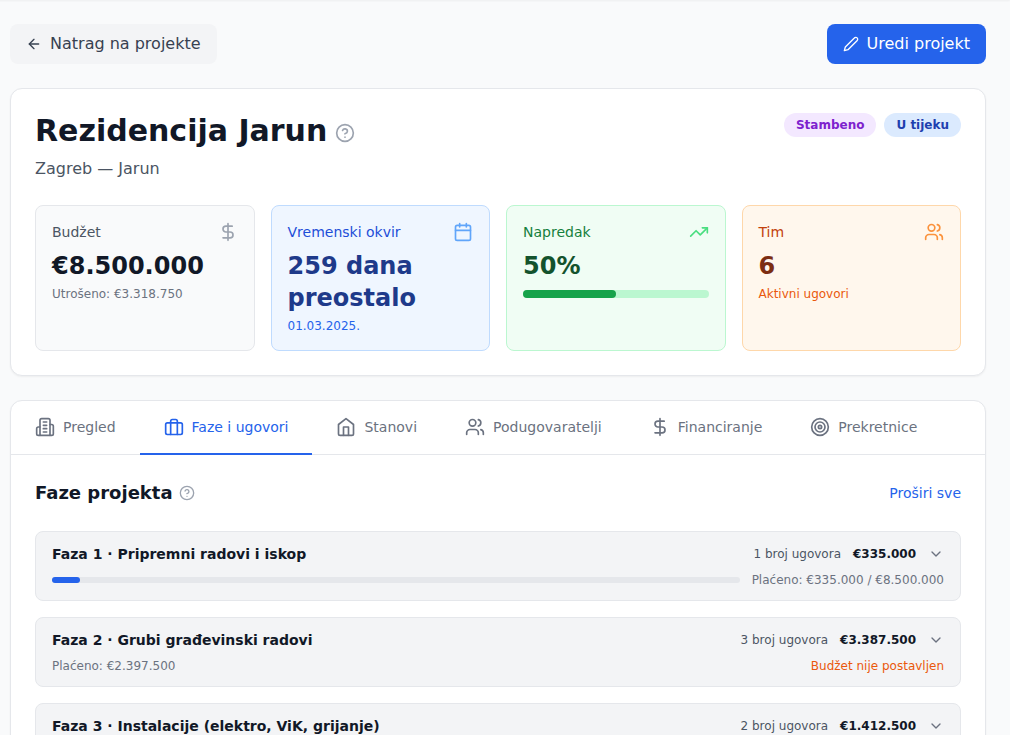
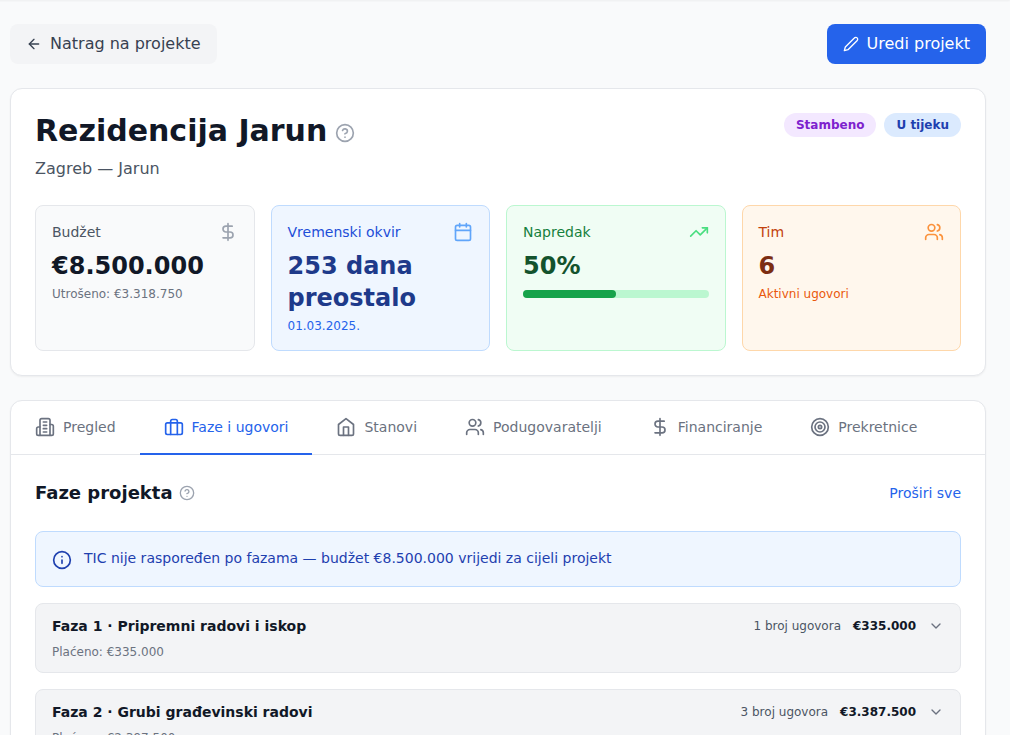
docs(help): retake the phase and site management shots after GEN-22; backlog GEN-23, SUP-16
The two help screenshots are retaken from LandmarkDemo now that it carries
20261015100000: Jarun's phase list shows the "TIC nije raspoređen po fazama" note.
Budget Control's shot came out unchanged.

GEN-23: the unphased EVM branch counts phases with no contracts as done, so Jarun's
forecast sits below what is already contracted. SUP-16: the overdue badge on a site
management card runs past the card edge.

diff --git a/docs/backlog/projects-dashboards-reports.md b/docs/backlog/projects-dashboards-reports.md
@@ -1,10 +1,28 @@
 # Backlog — projects, dashboards and reports
 
 The General module (projects, milestones, Budget Control / EVM, activity log), the per-profile
-dashboards and the PDF/Excel reports. Ids: `GEN-n` (next free: `GEN-23`). Entry format and rules
+dashboards and the PDF/Excel reports. Ids: `GEN-n` (next free: `GEN-24`). Entry format and rules
 are in [README.md](./README.md).
 
 ## Open
+
+### GEN-23 · Medium · Unphased plan: earned value counts phases with no contracts as done
+- **Check:** Code reading; the figure is visible on LandmarkDemo (Rezidencija Jarun) and in
+  `help-kb/img/kontrola-proracuna.png`
+- **Where:** `src/utils/evm.ts` `calculateProjectEVM`, the unphased branch (around lines 119-159)
+- **What happens:** for an unphased TIC over several phases, EV is the whole TIC total times the
+  contract-weighted completion of the contracts that exist so far. With phase 1's contracts done
+  and later phases not yet contracted, completion reads 100%, EV equals the whole TIC, and CPI and
+  the forecast show the GEN-22 symptom again. Jarun on 2026-10-20: forecast (EAC) €4.980.839,06
+  "Ispod proračuna", below the €5.735.000 already contracted. `evm.test.ts:296` feeds this exact
+  case (`[contracts[0]]`) but asserts only PV. Same branch: the schedule span uses only phases
+  that have dates, so with phases 2+ undated the whole plan is due by phase 1's end date and SPI
+  reads "behind schedule". Nothing on production is affected yet (no unphased TIC with several
+  phases on 2026-10-20).
+- **Fix direction:** weight completion against the plan, not against what is contracted, e.g. EV =
+  Σ(contract amount × physical %) capped at the TIC, so uncontracted scope counts as not started;
+  treat an undated phase as making the schedule unavailable rather than shortening it. Assert EV,
+  CPI and EAC in the test.
 
 ### GEN-21 · Low · Projects list shows a failed load as an Alert in the content area
 - **Where:** `General/Projects/index.tsx:117`.

diff --git a/docs/backlog/README.md b/docs/backlog/README.md
@@ -11,10 +11,10 @@ area holds the open items; the audits that found them are kept in `archive/` as 
 | [security.md](./security.md) | RLS, storage policies, role gating; accepted risks | 4 defects, 3 accepted risks |
 | [sales.md](./sales.md) | Units, the sale flow, customers | 7 |
 | [retail.md](./retail.md) | Land development, retail buyers | 3 |
-| [supervision.md](./supervision.md) | Site management, subcontractors, contracts | 4 |
+| [supervision.md](./supervision.md) | Site management, subcontractors, contracts | 5 |
 | [cashflow.md](./cashflow.md) | Invoices, payments, companies, bank accounts | 7, plus 4 waiting on the ERP |
 | [funding.md](./funding.md) | Credits, investors, allocations, TIC | 10 |
-| [projects-dashboards-reports.md](./projects-dashboards-reports.md) | General module, dashboards, reports, activity log | 6 |
+| [projects-dashboards-reports.md](./projects-dashboards-reports.md) | General module, dashboards, reports, activity log | 7 |
 | [collaboration.md](./collaboration.md) | Tasks, calendar, chat, documents, AI assistant | 10 |
 | [ui.md](./ui.md) | App-wide UI: formatting, failed loads, i18n, mobile, dark mode | 9 |
 | [plans/supplier-unification.md](./plans/supplier-unification.md) | Plan to merge the three vendor tables | Not started |

diff --git a/docs/backlog/supervision.md b/docs/backlog/supervision.md
@@ -1,12 +1,20 @@
 # Backlog — Supervision
 
 Site management, subcontractors, contracts, phases and work logs. Ids: `SUP-n` (next free:
-`SUP-16`). Entry format and rules are in [README.md](./README.md).
+`SUP-17`). Entry format and rules are in [README.md](./README.md).
 
 Supervision is used on phones on site; the mobile problems are UI-8 in [ui.md](./ui.md). The
 payment gate being screen-only is SEC-004 in [security.md](./security.md).
 
 ## Open
+
+### SUP-16 · Low · Site management card: the "kasni" badge runs past the card edge
+- **Check:** Confirmed (in `help-kb/img/upravljanje-gradilistem.png`, before and after 2026-10-20)
+- **Where:** `Supervision/SiteManagement/ProjectsGrid.tsx:90`, the badge row
+- **What happens:** at 1280px a card with status, category, phase count and overdue badges
+  (Rezidencija Jarun on LandmarkDemo) pushes the red "1 kasni" past the card's right edge.
+- **Fix direction:** `flex flex-wrap items-center gap-2` instead of `flex items-center space-x-2`,
+  then retake the `upravljanje-gradilistem` help shot.
 
 ### SUP-14 · Low · Supervision wording
 - The subtitles of Supervision payments and invoices describe something the pages do not do.
